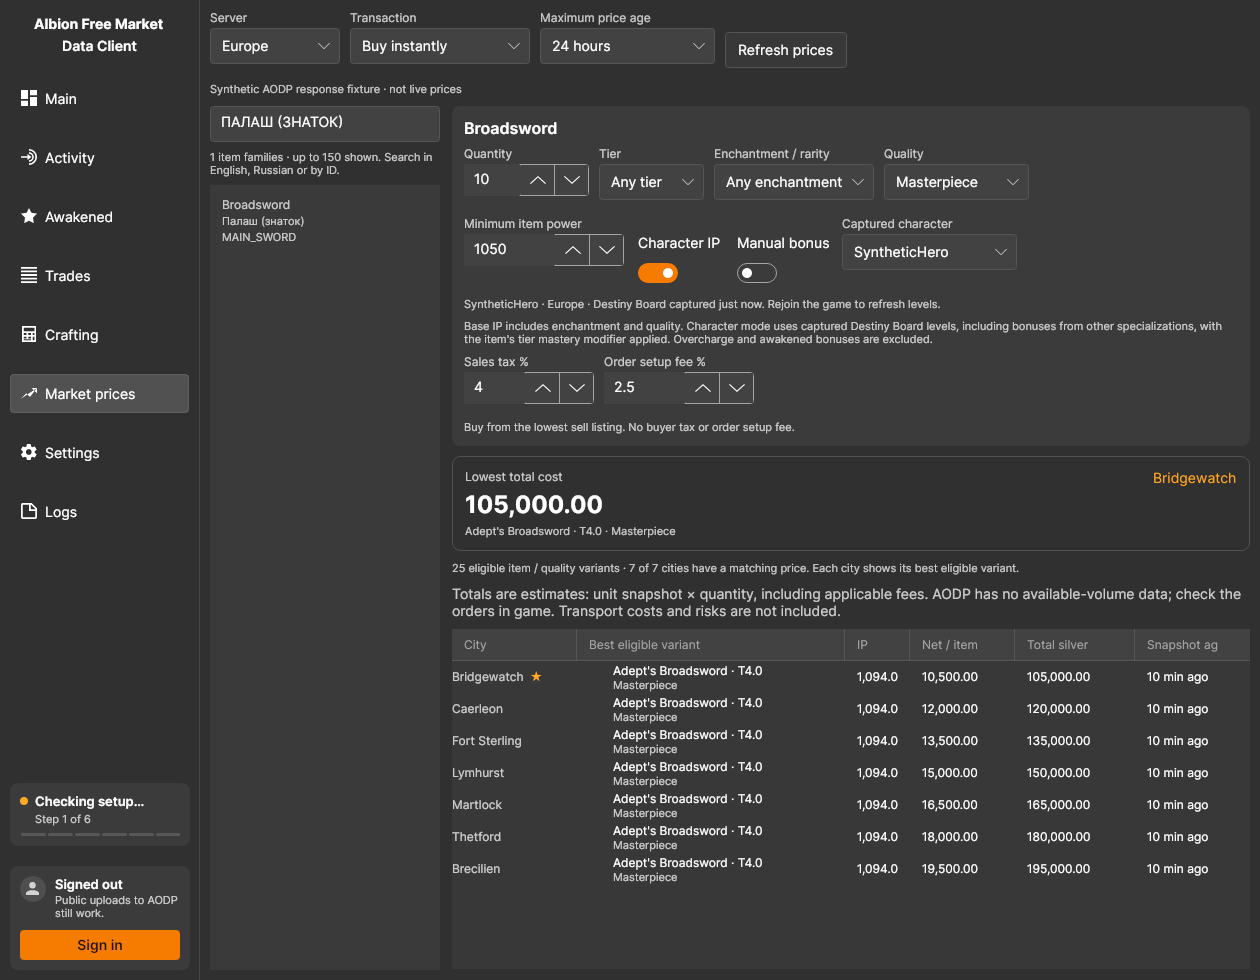
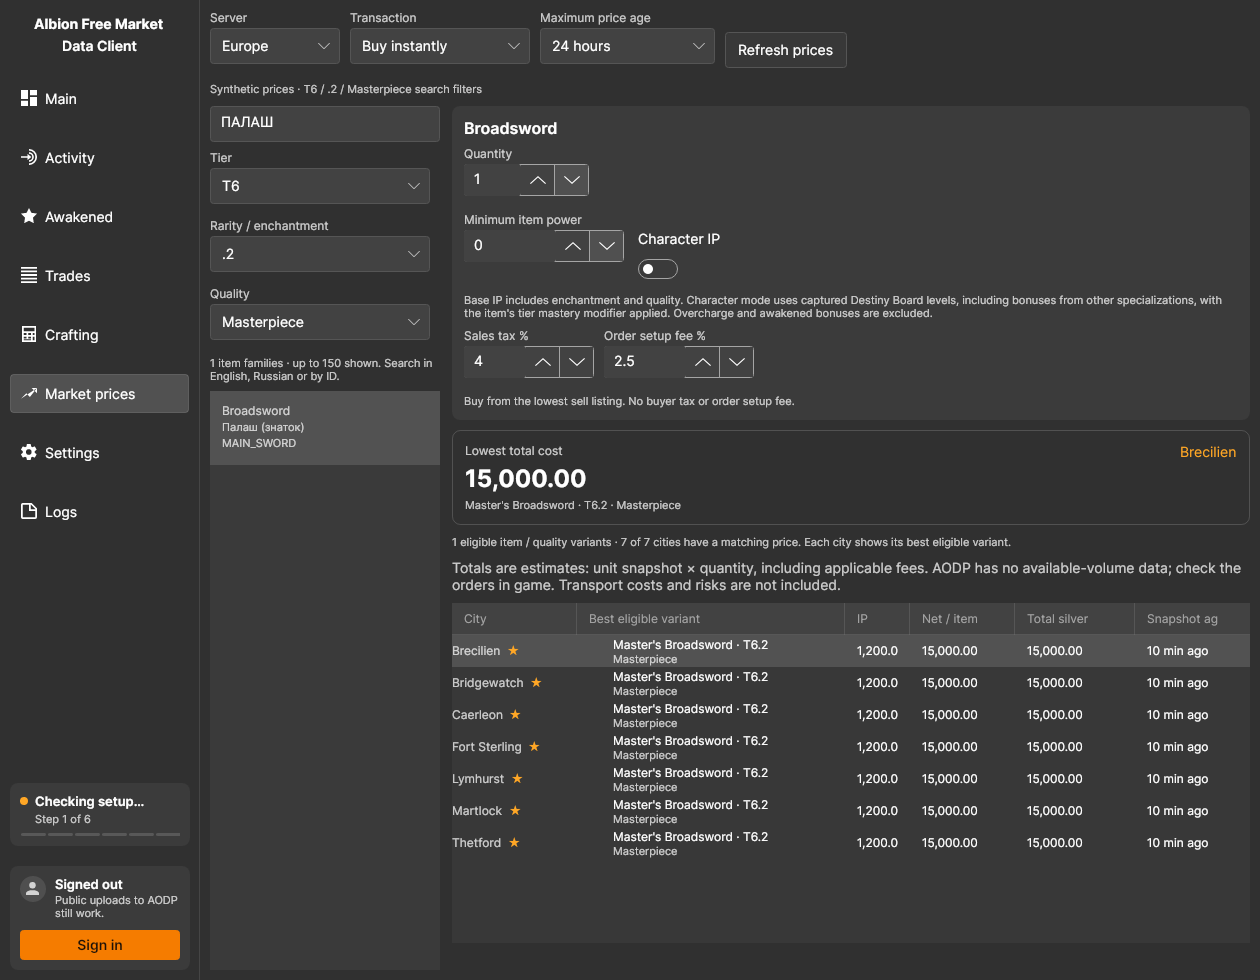
Filter crafting and market search by tier quality and enchantment

diff --git a/AlbionDataAvalonia/ViewModels/MarketViewModel.cs b/AlbionDataAvalonia/ViewModels/MarketViewModel.cs
@@ -20,6 +20,7 @@ public sealed partial class MarketViewModel : ViewModelBase
     private readonly UiDebouncer searchDelay;
     private readonly UiDebouncer priceDelay;
     private readonly LatestLoad loads = new();
+    private bool updatingSearchItems;
     private IReadOnlyList<MarketFamily> allItems = [];
     private IReadOnlyList<MarketQuote> quotes = [];
     private CancellationTokenSource? priceCancellation;
@@ -34,9 +35,9 @@ public sealed partial class MarketViewModel : ViewModelBase
     public static IReadOnlyList<string> Cities { get; } = ["Bridgewatch", "Caerleon", "Fort Sterling", "Lymhurst", "Martlock", "Thetford", "Brecilien"];
     public IReadOnlyList<Option<MarketAction>> Actions { get; } = [new(MarketAction.BuyInstantly, "Buy instantly"), new(MarketAction.BuyOrder, "Place buy orders"),
         new(MarketAction.SellInstantly, "Sell instantly"), new(MarketAction.SellOrder, "Place sell orders")];
-    public IReadOnlyList<Option<int>> Tiers { get; } = [new(0, "Any tier"), .. Enumerable.Range(1, 8).Select(x => new Option<int>(x, $"T{x}"))];
-    public IReadOnlyList<Option<int>> Enchantments { get; } = [new(-1, "Any enchantment"), .. Enumerable.Range(0, 5).Select(x => new Option<int>(x, $".{x}"))];
-    public IReadOnlyList<Option<int>> Qualities { get; } = [new(0, "Any quality"), .. Enumerable.Range(1, 5).Select(x => new Option<int>(x, MarketRowViewModel.QualityName(x)))];
+    public IReadOnlyList<Option<int>> Tiers => UiOptions.ItemTiers;
+    public IReadOnlyList<Option<int>> Enchantments => UiOptions.ItemEnchantments;
+    public IReadOnlyList<Option<int>> Qualities => UiOptions.ItemQualities;
     public IReadOnlyList<Option<int>> Ages { get; } = [new(1, "1 hour"), new(6, "6 hours"), new(24, "24 hours"), new(72, "3 days"), new(0, "Any age / unknown")];
     public ReplaceableCollection<MarketFamily> Items { get; } = new();
     public ReplaceableCollection<MarketRowViewModel> Results { get; } = new();
@@ -98,8 +99,10 @@ public sealed partial class MarketViewModel : ViewModelBase
     }
     private void InitializeItems()
     {
+        var preferred = allItems.FirstOrDefault(x => x.Key == "MAIN_SWORD");
+        if (SelectedItem is null && preferred is not null && MatchesSearch(preferred, CraftingSearch.Terms(SearchText))) SelectedItem = preferred;
         FilterItems();
-        SelectedItem ??= allItems.FirstOrDefault(x => x.Key == "MAIN_SWORD") ?? allItems.FirstOrDefault();
+        SelectedItem ??= Items.FirstOrDefault();
     }
     public void Deactivate()
     {
@@ -110,22 +113,32 @@ public sealed partial class MarketViewModel : ViewModelBase
     private void FilterItems()
     {
         var terms = CraftingSearch.Terms(SearchText);
-        var found = allItems.Where(x => terms.All(term => x.SearchText.Contains(term, StringComparison.Ordinal))).ToArray();
+        var found = allItems.Where(x => MatchesSearch(x, terms)).ToArray();
         var selected = SelectedItem;
-        Items.ReplaceAll(found.Take(150));
-        if (selected is not null && Items.Contains(selected)) SelectedItem = selected;
+        var visible = found.Take(150).ToList();
+        if (selected is not null && found.Contains(selected) && !visible.Contains(selected)) visible[^1] = selected;
+        // A ListBox can temporarily clear selection during Reset. Keep dependent inputs until the final selection is known.
+        updatingSearchItems = true;
+        try
+        {
+            if (!Items.SequenceEqual(visible)) Items.ReplaceAll(visible);
+            SelectedItem = selected is not null && visible.Contains(selected) ? selected : null;
+        }
+        finally { updatingSearchItems = false; }
+        if (SelectedItem != selected) OnSelectedItemChanged(SelectedItem);
         CatalogStatus = $"{UiFormat.Whole(found.Length)} item families · up to 150 shown. Search in English, Russian or by ID.";
     }
     partial void OnSearchTextChanged(string value) => searchDelay.Trigger();
     partial void OnSelectedItemChanged(MarketFamily? value)
     {
+        if (updatingSearchItems) return;
         OnPropertyChanged(nameof(HasSelection)); OnPropertyChanged(nameof(HasPower)); OnPropertyChanged(nameof(HasQuality)); OnPropertyChanged(nameof(ShowSkillBonus)); OnPropertyChanged(nameof(ShowProfilePicker));
         QueuePrices();
     }
     partial void OnSelectedRegionChanged(Option<string> value) { RefreshProfiles(); QueuePrices(); }
-    partial void OnSelectedTierChanged(Option<int> value) => QueuePrices();
-    partial void OnSelectedEnchantmentChanged(Option<int> value) => QueuePrices();
-    partial void OnSelectedQualityChanged(Option<int> value) => QueuePrices();
+    partial void OnSelectedTierChanged(Option<int> value) { FilterItems(); QueuePrices(); }
+    partial void OnSelectedEnchantmentChanged(Option<int> value) { FilterItems(); QueuePrices(); }
+    partial void OnSelectedQualityChanged(Option<int> value) { FilterItems(); QueuePrices(); }
     partial void OnMinimumPowerChanged(decimal? value) => QueuePrices();
     partial void OnPersonalPowerChanged(bool value) { OnPropertyChanged(nameof(ShowSkillBonus)); OnPropertyChanged(nameof(ShowProfilePicker)); QueuePrices(); }
     partial void OnManualSkillsChanged(bool value) { OnPropertyChanged(nameof(ShowSkillBonus)); OnPropertyChanged(nameof(ShowProfilePicker)); QueuePrices(); }
@@ -164,11 +177,15 @@ public sealed partial class MarketViewModel : ViewModelBase
     {
         OnPropertyChanged(nameof(TotalLabel)); OnPropertyChanged(nameof(PriceHint)); Recalculate();
     }
+    private bool MatchesSearch(MarketFamily item, string[] terms) => terms.All(term => item.SearchText.Contains(term, StringComparison.Ordinal))
+        && item.Variants.Any(MatchesSearchFilters);
+    private bool MatchesSearchFilters(MarketItem item) => (SelectedTier.Value == 0 || item.Tier == SelectedTier.Value)
+        && (SelectedEnchantment.Value < 0 || item.Enchantment == SelectedEnchantment.Value)
+        && (SelectedQuality.Value == 0 || item.MaxQuality >= SelectedQuality.Value);
     private MarketCandidate[] Candidates()
     {
         if (SelectedItem is null || !PowerValid()) return [];
-        return SelectedItem.Variants.Where(x => (SelectedTier.Value == 0 || x.Tier == SelectedTier.Value)
-                && (SelectedEnchantment.Value < 0 || x.Enchantment == SelectedEnchantment.Value))
+        return SelectedItem.Variants.Where(MatchesSearchFilters)
             .SelectMany(x => Enumerable.Range(1, x.MaxQuality).Where(q => !HasQuality || SelectedQuality.Value == 0 || q == SelectedQuality.Value)
                 .Select(q => new MarketCandidate(x, q, HasPower ? ItemPower(x, q) : null)))
             .Where(x => !HasPower || x.ItemPower >= MinimumPower).ToArray();

diff --git a/AlbionDataAvalonia/ViewModels/CraftingViewModel.cs b/AlbionDataAvalonia/ViewModels/CraftingViewModel.cs
@@ -19,6 +19,7 @@ public sealed partial class CraftingViewModel : ViewModelBase
     private readonly UiDebouncer searchDelay;
     private readonly UiDebouncer priceDelay;
     private readonly LatestLoad loads = new();
+    private bool updatingSearchItems;
     private IReadOnlyList<CraftableItem> allItems = [];
     private CancellationTokenSource? priceCancellation;
     private bool active, initializing, applyingSale, manualSale;
@@ -33,6 +34,12 @@ public sealed partial class CraftingViewModel : ViewModelBase
     public IReadOnlyList<string> Cities { get; } = ["Bridgewatch", "Caerleon", "Fort Sterling", "Lymhurst", "Martlock", "Thetford", "Brecilien"];
     public IReadOnlyList<string> Categories { get; } = ["All recipes", "Refining", "Equipment", "Consumables", "Other crafting"];
     public IReadOnlyList<Option<int>> Qualities { get; } = [new(1, "Normal"), new(2, "Good"), new(3, "Outstanding"), new(4, "Excellent"), new(5, "Masterpiece")];
+    public IReadOnlyList<Option<int>> Tiers => UiOptions.ItemTiers;
+    public IReadOnlyList<Option<int>> Enchantments => UiOptions.ItemEnchantments;
+    public IReadOnlyList<Option<int>> SearchQualities => UiOptions.ItemQualities;
+    [ObservableProperty] private Option<int> selectedTier = new(0, "Any tier");
+    [ObservableProperty] private Option<int> selectedEnchantment = new(-1, "Any enchantment");
+    [ObservableProperty] private Option<int> selectedSearchQuality = new(0, "Any quality");
     public IReadOnlyList<string> BuyModes { get; } = ["Buy instantly", "Buy orders"];
     public IReadOnlyList<string> SellModes { get; } = ["Sell orders", "Sell instantly"];
     public ReplaceableCollection<CraftableItem> Items { get; } = new();
@@ -78,8 +85,10 @@ public sealed partial class CraftingViewModel : ViewModelBase
         try
         {
             allItems = await catalog.LoadAsync();
+            var preferred = allItems.FirstOrDefault(x => x.ItemId == "T4_STONEBLOCK");
+            if (SelectedItem is null && preferred is not null && MatchesSearch(preferred, CraftingSearch.Terms(SearchText))) SelectedItem = preferred;
             FilterItems();
-            if (SelectedItem is null) SelectedItem = allItems.FirstOrDefault(x => x.ItemId == "T4_STONEBLOCK");
+            SelectedItem ??= Items.FirstOrDefault();
         }
         catch (Exception failure) { Log.Warning(failure, "Could not load crafting recipes"); CatalogStatus = "Couldn't load the bundled crafting recipes. Check the application installation."; }
         finally { initializing = false; }
@@ -92,20 +101,42 @@ public sealed partial class CraftingViewModel : ViewModelBase
     private void FilterItems()
     {
         var terms = CraftingSearch.Terms(SearchText);
-        var matches = allItems.Where(x => (SelectedCategory == "All recipes" || x.Category == SelectedCategory)
-            && CraftingSearch.Matches(x, terms)).ToArray();
+        var matches = allItems.Where(x => MatchesSearch(x, terms)).ToArray();
         var selection = SelectedItem;
-        Items.ReplaceAll(matches.Take(150));
-        if (selection is not null && Items.Contains(selection)) SelectedItem = selection;
+        var visible = matches.Take(150).ToList();
+        if (selection is not null && matches.Contains(selection) && !visible.Contains(selection)) visible[^1] = selection;
+        // A ListBox can temporarily clear selection during Reset. Keep dependent inputs until the final selection is known.
+        updatingSearchItems = true;
+        try
+        {
+            if (!Items.SequenceEqual(visible)) Items.ReplaceAll(visible);
+            SelectedItem = selection is not null && visible.Contains(selection) ? selection : null;
+        }
+        finally { updatingSearchItems = false; }
+        if (SelectedItem != selection) OnSelectedItemChanged(SelectedItem);
         CatalogStatus = $"{UiFormat.Whole(matches.Length)} recipes · showing up to 150. Search by English/Russian name or item ID.";
+    }
+    private bool MatchesSearch(CraftableItem item, string[] terms) => (SelectedCategory == "All recipes" || item.Category == SelectedCategory)
+        && CraftingSearch.Matches(item, terms)
+        && (SelectedTier.Value == 0 || item.Tier == SelectedTier.Value)
+        && (SelectedEnchantment.Value < 0 || item.Enchantment == SelectedEnchantment.Value)
+        && (SelectedSearchQuality.Value == 0 || item.MaxQuality >= SelectedSearchQuality.Value);
+    partial void OnSelectedTierChanged(Option<int> value) => FilterItems();
+    partial void OnSelectedEnchantmentChanged(Option<int> value) => FilterItems();
+    partial void OnSelectedSearchQualityChanged(Option<int> value)
+    {
+        FilterItems();
+        if (value.Value > 0) SelectedQuality = UiOptions.Find(Qualities, value.Value);
     }
     partial void OnSearchTextChanged(string value) => searchDelay.Trigger();
     partial void OnSelectedCategoryChanged(string value) => searchDelay.Trigger();
     partial void OnSelectedItemChanged(CraftableItem? value)
     {
+        if (updatingSearchItems) return;
         OnPropertyChanged(nameof(HasSelection)); OnPropertyChanged(nameof(CanChooseQuality));
         Recipes = value?.Recipes ?? []; SelectedRecipe = Recipes.FirstOrDefault();
         if (value?.MaxQuality <= 1) SelectedQuality = Qualities[0];
+        else if (value is not null && SelectedSearchQuality.Value > 0) SelectedQuality = UiOptions.Find(Qualities, SelectedSearchQuality.Value);
     }
     partial void OnSelectedRecipeChanged(CraftingRecipe? value)
     {
@@ -116,7 +147,12 @@ public sealed partial class CraftingViewModel : ViewModelBase
     }
     partial void OnSelectedRegionChanged(string value) => MarketChanged();
     partial void OnSelectedCityChanged(string value) => MarketChanged();
-    partial void OnSelectedQualityChanged(Option<int> value) => MarketChanged();
+    partial void OnSelectedQualityChanged(Option<int> value)
+    {
+        if (SelectedSearchQuality.Value > 0 && SelectedSearchQuality.Value != value.Value)
+            SelectedSearchQuality = UiOptions.Find(SearchQualities, value.Value);
+        MarketChanged();
+    }
     partial void OnSelectedBuyModeChanged(string value) => MarketChanged();
     partial void OnSelectedSellModeChanged(string value) { ResetSale(); Recalculate(); QueuePrices(); }
     private void MarketChanged()

diff --git a/AlbionDataAvalonia/Ui/Option.cs b/AlbionDataAvalonia/Ui/Option.cs
@@ -20,6 +20,10 @@ public sealed record Option<T>(T Value, string Label) : IOption
 /// <summary>Option lists that more than one screen offers.</summary>
 public static class UiOptions
 {
+    public static IReadOnlyList<Option<int>> ItemTiers { get; } = [new(0, "Any tier"), .. Enumerable.Range(1, 8).Select(x => new Option<int>(x, $"T{x}"))];
+    public static IReadOnlyList<Option<int>> ItemEnchantments { get; } = [new(-1, "Any enchantment"), .. Enumerable.Range(0, 5).Select(x => new Option<int>(x, $".{x}"))];
+    public static IReadOnlyList<Option<int>> ItemQualities { get; } = [new(0, "Any quality"), new(1, "Normal"), new(2, "Good"), new(3, "Outstanding"), new(4, "Excellent"), new(5, "Masterpiece")];
+
     /// <summary>How many trades to load.</summary>
     public static IReadOnlyList<Option<int>> TradeCounts { get; } = Counts(100, 250, 500, 1000, 2000, 5000, 10000);
 

diff --git a/docs/DEVELOPMENT.md b/docs/DEVELOPMENT.md
@@ -153,3 +153,5 @@ The calculator chooses each city's best matching variant, minimizes purchase cos
 Character IP has an automatic captured-profile mode and a manual bonus fallback. The desktop subscribes to the shared `FullAchievementInfoEvent`, the same decoded levels uploaded to AFM by Specs; it does not scrape the site or add an undocumented authenticated API. A confirmed character/server context is required. Compact level-100 entries and explicit elite levels are resolved by achievement ID using the shared reference service. `CharacterMasteryService` reads the bundled Destiny Board `baserewards`/`eliterewards`, applies item-power patterns, tier gates and level limits, includes cross-specialization bonuses, then applies each item's mastery modifier to the total skill bonus. Base IP and quality do not receive this multiplier. Overcharge and awakened bonuses are excluded.
 
 Up to 20 character/server snapshots are retained locally in `data/character-mastery.json`, with an atomic serialized write and a bounded persisted size. The page displays the source character, region and capture age. Rejoin the game with capture enabled to obtain/refresh a full snapshot; an existing AFM website profile is not downloaded on first use. Without captured levels, choose manual input or base IP. No database migration, new credentials, external dependency or shared-core pointer update is required.
+
+Both Crafting and Market prices expose shared tier, rarity/enchantment and quality choices beside their search boxes. These combine with text search (and the crafting category). Market families require one variant satisfying all three filters; the same predicate restricts price candidates. Crafting quality filters retain recipes supporting that output quality and synchronize the output price quality. Any quality includes single-quality resources. Incompatible selections clear their dependent calculation, while a matching selection stays visible within the 150-result cap and retains manual prices across list refreshes.
